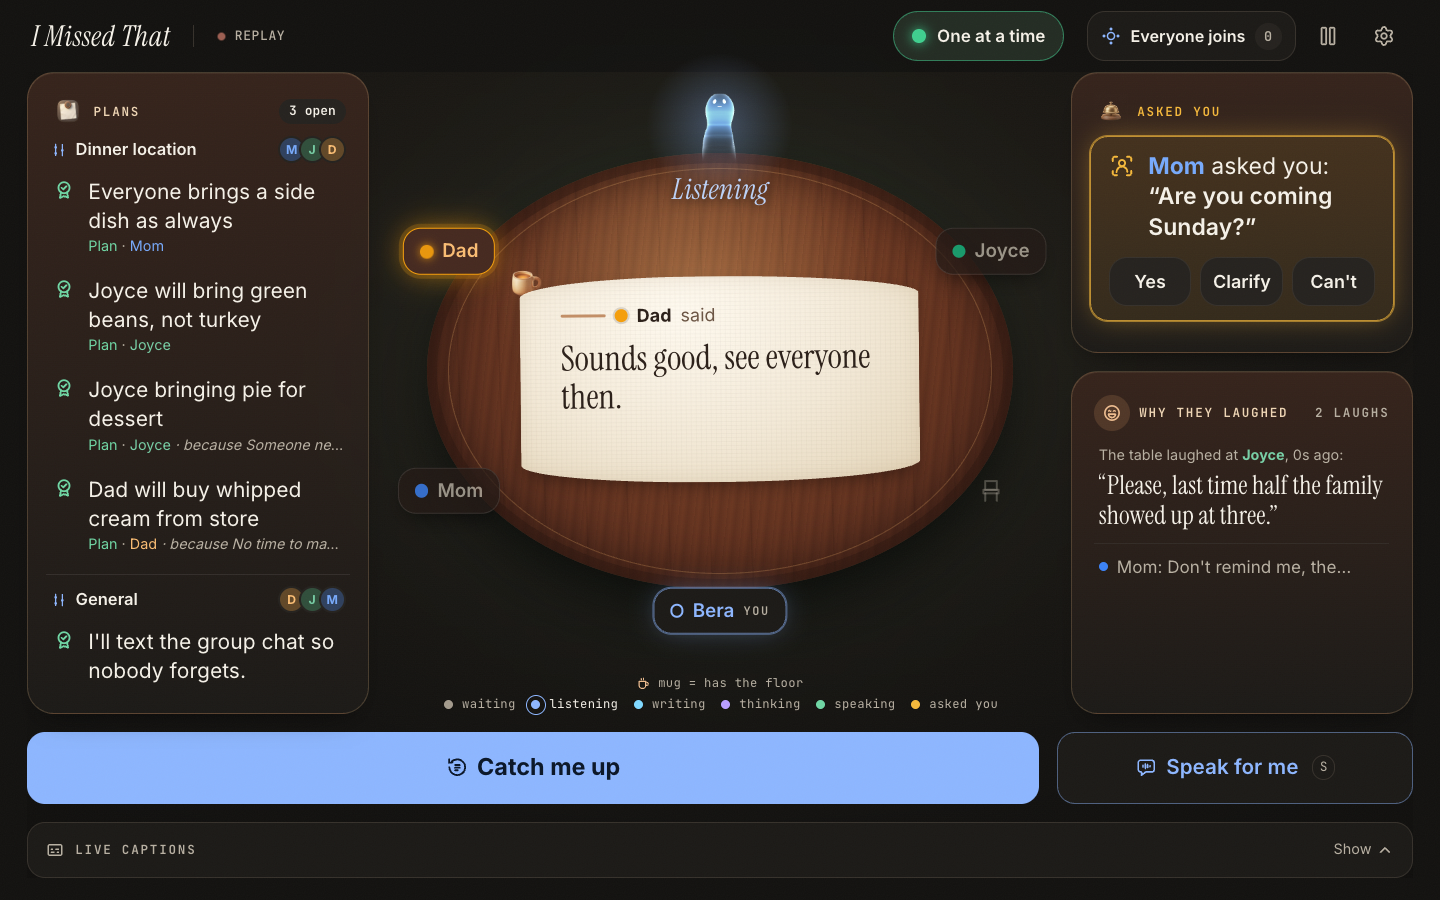
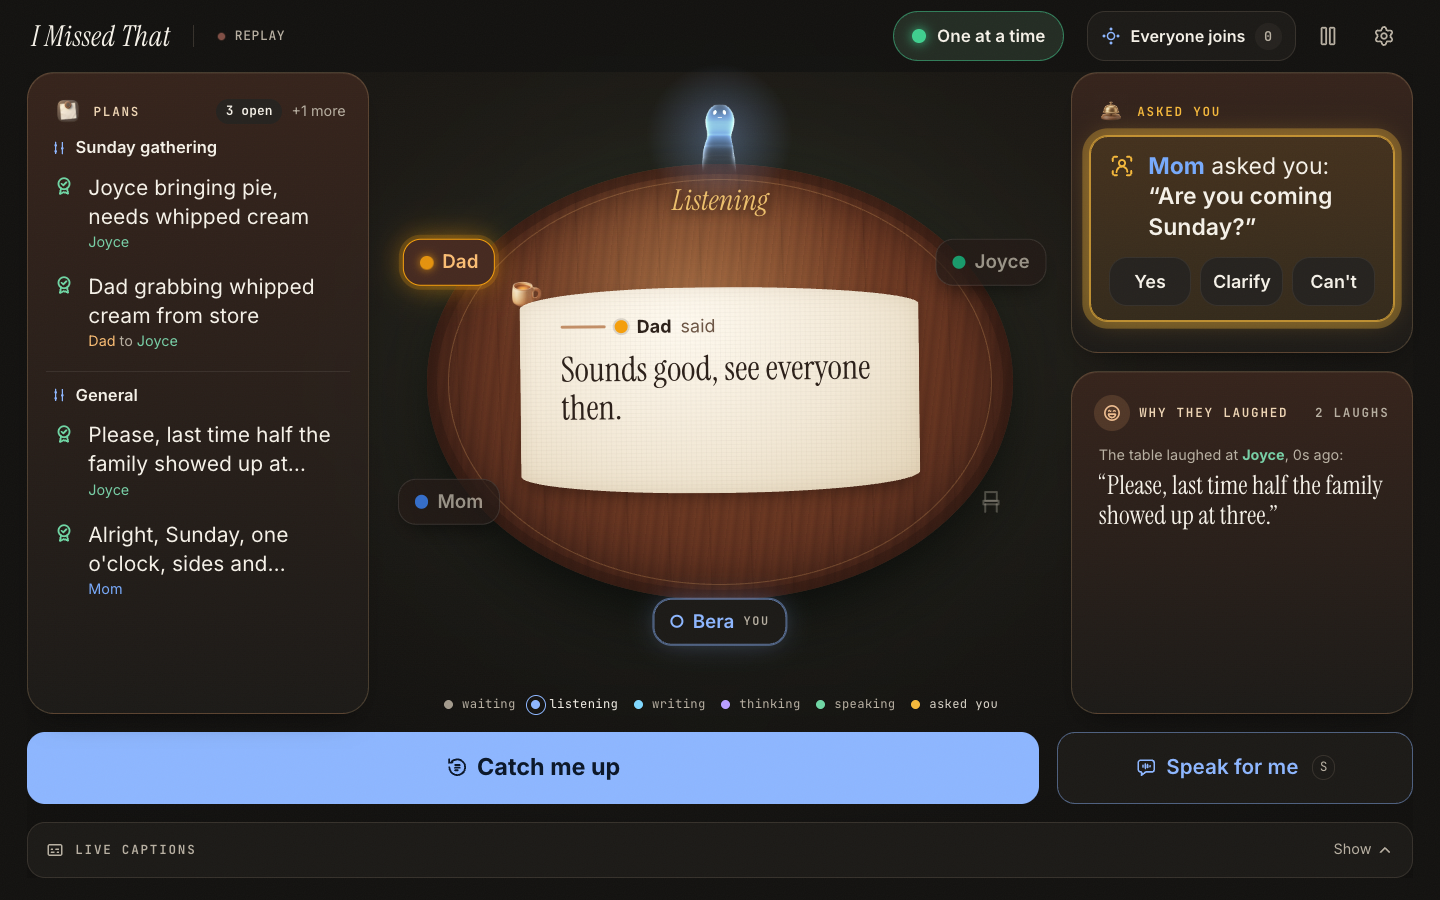
Table design follow-up: phone scroll, less crowded plans, latest joke only

diff --git a/client/src/ui/OpenCard.tsx b/client/src/ui/OpenCard.tsx
@@ -63,8 +63,8 @@ export function OpenCard({ items, threads = [], colorFor, onOpen, tall = false, 
   const lanes = buildLanes(open, threads);
   // Conversation lanes need room: the tall desktop dish shows them; phones/tablets get one calm list.
   const lanesView = tall && (lanes.length > 1 || (lanes.length === 1 && lanes[0].key !== GENERAL));
-  const perLane = (lanes.length <= 1 ? 4 : lanes.length === 2 ? 3 : 2) + (tall ? 1 : 0);
-  const shownOpen = (lanesView ? lanes.flatMap((l) => pick(l.items, perLane)) : pick(open, tall ? 5 : 3)).filter((i) => !i.resolved).length;
+  const perLane = lanes.length <= 1 ? 4 : lanes.length === 2 ? 2 : 1;
+  const shownOpen = (lanesView ? lanes.flatMap((l) => pick(l.items, perLane)) : pick(open, tall ? 4 : 3)).filter((i) => !i.resolved).length;
   const hidden = Math.max(0, unresolved.length - shownOpen);
 
   return (
@@ -81,10 +81,10 @@ export function OpenCard({ items, threads = [], colorFor, onOpen, tall = false, 
         <p className="px-1 text-body text-muted">Nothing on the table yet. Plans (with the why), pushback and questions land here, one lane per conversation.</p>
       ) : !lanesView ? (
         <ul className="min-h-0 flex-1 space-y-0.5 overflow-hidden">
-          {pick(open, tall ? 5 : 3).map((i) => <LedgerRow key={i.id} item={i} color={colorFor(i.speaker)} replyColor={colorFor(i.replyTo)} onOpen={() => onOpen(i.t)} compact />)}
+          {pick(open, tall ? 4 : 3).map((i) => <LedgerRow key={i.id} item={i} color={colorFor(i.speaker)} replyColor={colorFor(i.replyTo)} onOpen={() => onOpen(i.t)} compact />)}
         </ul>
       ) : (
-        <div className={cn('grid min-h-0 flex-1 content-start gap-2.5 overflow-hidden', lanes.length > 1 && !tall && 'md:grid-cols-2')}>
+        <div className={cn('grid min-h-0 flex-1 content-start gap-2.5 overflow-hidden [mask-image:linear-gradient(to_bottom,black_85%,transparent)]', lanes.length > 1 && !tall && 'md:grid-cols-2')}>
           {lanes.map((l) => (
             <LaneView key={l.key} lane={l} max={perLane} colorFor={colorFor} onOpen={onOpen} wide={false} compact />
           ))}

diff --git a/client/src/ui/LedgerRow.tsx b/client/src/ui/LedgerRow.tsx
@@ -39,8 +39,9 @@ export function LedgerRow({ item, color, replyColor, onOpen, compact = false }: 
           <span className="min-w-0 flex-1">
             <span className={cn('line-clamp-2 text-body', faded && 'line-clamp-1 line-through decoration-muted')}>{item.text}</span>
             <span className="mt-0.5 block truncate text-meta">
-              <span className={k.tint}>{k.label}</span>
-              {item.speaker && <> · <span style={{ color: readable(color) }}>{item.speaker}</span></>}
+              {/* the dish is already called Plans: only the other kinds say what they are */}
+              {item.kind !== 'decision' && <span className={k.tint}>{k.label} · </span>}
+              {item.speaker && <span style={{ color: readable(color) }}>{item.speaker}</span>}
               {item.replyTo && <> to <span style={{ color: readable(replyColor ?? '') }}>{item.replyTo}</span></>}
               {showWhy && <span className="italic"> · because {item.reason}</span>}
             </span>

diff --git a/client/src/ui/LaughCard.tsx b/client/src/ui/LaughCard.tsx
@@ -66,7 +66,7 @@ export function LaughCard({ items, catchup, nameOf, colorOf, colorFor, getNow, o
   const ago = (t: number) => { const s = Math.max(0, Math.round((nowT - t) / 1000)); return s < 60 ? `${s}s ago` : `${Math.floor(s / 60)}m ago`; };
 
   const last = jokes[jokes.length - 1];
-  const earlier = jokes.slice(-2, -1);
+  const earlier: Joke[] = []; // one joke at a time: the latest laugh is the one you missed
 
   if (variant === 'strip') {
     if (!last && !sounds.length) return null;
